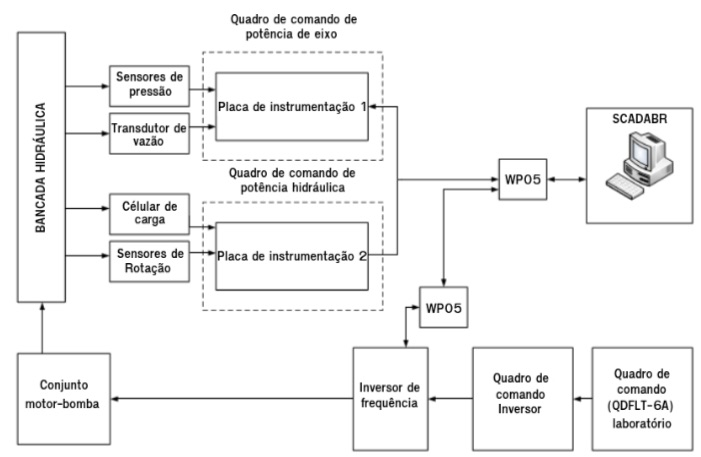
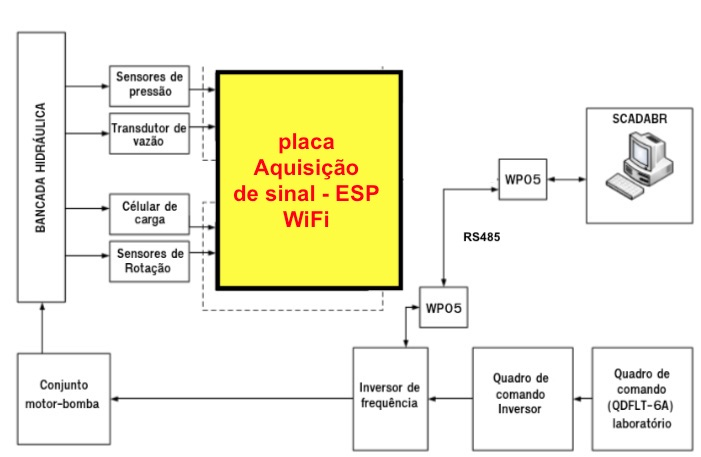
Atualizando versao 2025
Atualizando versao 2025

Changed region(s): [[0.2996, 0.1225, 0.719, 0.6433], [0.2996, 0.0306, 0.5392, 0.1225], [0.6591, 0.4902, 0.719, 0.5514]]

diff --git a/README.md b/README.md
@@ -128,11 +128,7 @@ O sensor de proximidade é do tipo NPN coletor aberto com os seguintes pinos mos
 | BU - Blue  | GND | Amarelo |
 
 A conversão dos pulsos em velocidade poder ser feito de várias maneiras. 
-A maneira mais direto é pelo mostrador WIKA A-RD-1 cuja manual é mostrado a seguir. 
 
-[![](annexos/wika_ba_a_rd_1_6350.pdf)](annexos/wika_ba_a_rd_1_6350.pdf)
-
-Este mostrador tem vários funcionalidades e pode ser reprogramados para fazer outras funções.
 
 
 ## 3.4. Freio de Prony com célula de carga
@@ -149,6 +145,7 @@ Folha de especificação técnica da célula de carga.
 
 
 [Video de freio de prony montada na bancada](https://youtu.be/LnSO-6u0-hE)
+
 
 
 # 4. Sistema de supervisão, controle e  aquisição de dados do laboratório
@@ -176,15 +173,16 @@ A figura a seguir mostra a primeira configuração do sistema com os seguintes c
 8. ambor de freio 
 9. célula de carga
 10. sensor de vazão
-11. interface RS232 para o inversor CFW9
+11. interface RS485 para o inversor CFW9
 12. interface RS485 para o supervisório 
 13. computador supervisório 
-14. rede rs485 ligando as placas de aquisição
+14. wifi para ligar placa de aquisição de sinal
 
 
 ![](figuras/disposicao_medidores.jpg)
 
 O diagrama de blocos a seguir mostra o detalhamento dessa configuração.
+
 
 ![](figuras/diagrama_blocos_instrumentacao.jpg)
 
@@ -193,11 +191,38 @@ A interface de medição e monitoramento de variáveis elétricos está sendo de
 As placas para aquirir as variáveis hidraulicas e mecânicas serão apresentado na proxima secção. As duas placas de aquisição são idêntiticas. 
 
 
-## 4.1. Placa de aquisição de dados
+## 4.1. Placa de aquisição de dados com ESP32
 
-A placa de aquisição de dados foi desenvolvido num trabalho de final de curso de um aluno de engenharia eletrônico e tem como componente principal um microcontrolador Arduino bastante popular. 
+O desenvolvimento da placa de aquisição - terceira versão. A primeira versão foi do CW552 da Controlware. O segunda versão foi desenvolvido trabalho de TCC Rodrigo Calixto baseado no Arduino.
+Terceira versão desenvolvido em ESP32.
 
-O diagrama de blocos é apresentado na figura a seguir, mostrando os blocos funcionais do hardware. Cada placa conta com os seguintes interfaces:
+Requisitos:
+
+* Concentrar todas os sensores e transdutores
+* Ligação com computador wireless 
+* Protocolo Modbus-IP a uma taxa de amostragem de 1Hz
+* Capacidade de medir dados a 10Hz de amostragem e encaminhar a porta serial dedicado a 115kBPS
+* display LCD mostrando todos os dados
+* configuração de IP dinâmico e estático 
+* Alimentação 5, 12 e 24Volts DC
+
+
+![](figuras/esquema_esp32wifi.jpg)
+
+| conector | descrição |  sinal|           
+|:----:|:--------:|:---------:|
+| Jx | Sensor rotação da turbina  | pulsos em 12V  |  
+| Jx | Amplificador célula carga 1 | 0-10V  |
+| Jx | Amplificador célula carga 2 | 0-10V  |
+| Jx | abertura de borboleta | 0-3.3V
+| Jx | vazão | 4-20mA |
+
+
+
+
+![](figuras/Dinamometro_ESP32_wifi_modbus_freio_turbina_2025.jpg)
+
+
 
 
 | item | descrição | Interface | Função | pino pcb placa |           
@@ -213,62 +238,15 @@ O diagrama de blocos é apresentado na figura a seguir, mostrando os blocos func
 | 9 | Interface serial digital    | TTL      | conversor ADC |
 
 
-O diagrama de blocos da placa de aquisição é mostrada na figura a seguir.
-
-![](figuras/diagrama_placa_aquisicao.jpg)
-
-O esquema da placa é mostrada nas figuras a seguir. Na primeira figura tem o detalhamento do microcontrolador com as entradas e saídas.
 
 
-![](figuras/esquematico_placa_aquisicao_micro.jpg)
-
-A seguir tem o circuito de comunicação com a opção de selecionar entre RS485 ou WiFi.
-
-![](figuras/esquematico_placa_aquisicao_comm.jpg)
-
-A placa de circuito impresso é apresentada na figura a seguir. 
-
-![](figuras/pcb_placa_aquisicao.jpg)
-
-As únicas configurações de hardware na placa é feito pela selação de canal de comunicação (RS485 e WiFi) usando estrapes nos jumpers no J1. 
-
-### 4.1.1. Configuração da placa de aquisição de dados
-A placa de aquisição de dados foi inicialmente desenvolvido com uma interface de comunicação RS485 para rodar o protocolo MODBUS-RTU.
-Essa opção esbarrou em algumas limitações, pois o MODBUS-RTU com o software ScadaBR não permitia a expansão do sistema devido a uma limitação de implementar várias linhas seriais RS485 no servidor.
-
-Com a amadurecimento da plataforma de instrumentação desenvolveu-se uma nova placa de aquisição, que alem do MODBUS-RTU também podia implementado o protocolo MODBUR-IP e fazer uso da rede de comunicação WiFi no laboratório.
-
-Para implementar as funcionalidades na placa de aquisição com o Arduino Nano usou-se a [biblioteca ESP8266.h](https://github.com/itead/ITEADLIB_Arduino_WeeESP8266)
-
-Para implementar o protocolo MODBUS-IP usou se a biblioteca de [André Sarmento disponível neste link](https://github.com/andresarmento/modbus-arduino)
-
-Alguns problemas que tivemos que resolver para o correto funcionamento do hardware e software. 
-Tivemos que corriger alguns bugs da placa, retirando o CD4050, e colocar no lugar dele um divisor de tensão para ligar o TX do Arduio Nano com o RX do ESP8266.
-Usamos a configuração mais simples possível de ligar o ESP8266, por meio somente de comandos AT e ligando somente o pino CHE_PD em Vcc, TX e RX do Arduino com RX e TX do ESP8266. 
-Outro problema encontrado foi na alimentação VCC do ESP8266 pela saída de 3.3v do Arduino. O consumo do ESP8266 derrubava a saída de 3.3v. 
-Por isso teve que se colocar uma fonte de 3.3 exclusivo para alimentar o ESP8266.
-
-Feito isso, desenvolveu-se um programa de habilitar o WiFi no Arduino, e um programa de configuração usando as teclas da placa e o display LCD para configurar o WiFi. 
-A novidade neste programa é que, diferentemente das soluções convenconais que usam o Arduino com duas portas seriais, usou-se neste caso somente as teclas e o display para fazer a configuração.
- 
-O programa está no [repositório](https://github.com/rudivels/Bancada_Hidreletrica) 
-
-O esquemático completo da placa de aquisição está [neste link](figuras/Schematic_Rudi_2020-11-05_23-20-54.pdf)
-
-### 4.1.2. Operação da placa de aquisição de dados
-
-As principais operações na placa de aquisição são:
-
-* ler o estado da rede WiFi
-* ler o endereço IP da placa
-* reiniciar a rede WiFi
-
-Para fazer isso o programa conta com três teclas do tipo push button e o LCD gráfico de 128x64. 
-Durante a operação normal o LCD mostra as variáveis monitorados pela placa e o estado da comunicação. Ao resetar a placa e segurar uma das tecla de programação a placa entre no modo de configuração que permite essas principais operações. 
-Pretende-se melhorar essa interface para incluir mais funcionalidades.
 
 
-## 4.2. ScadaBR 
+## 4.2. Configuração da placa de aquisição de dados
+
+
+
+
 
 Diagrama PID 
 ![](figuras/diagrama_pid.jpg)
@@ -284,6 +262,7 @@ Rede MODBUS
 * MODBUS-RTU
 
 
+
 ## 4.4. Controle do pressão da bomba
 
 ![](figuras/diagrama_blocos_controle_pressao.jpg)
@@ -295,7 +274,9 @@ Santos MECM dos. Controle da pressão de operação da Bancada de Testes para Tu
 Freio de prony.
 
 
-## 5.1. Roteiro da experiência remota
+![](figuras/CurvaPOTxRPM.jpg)
+
+
 
 
 
